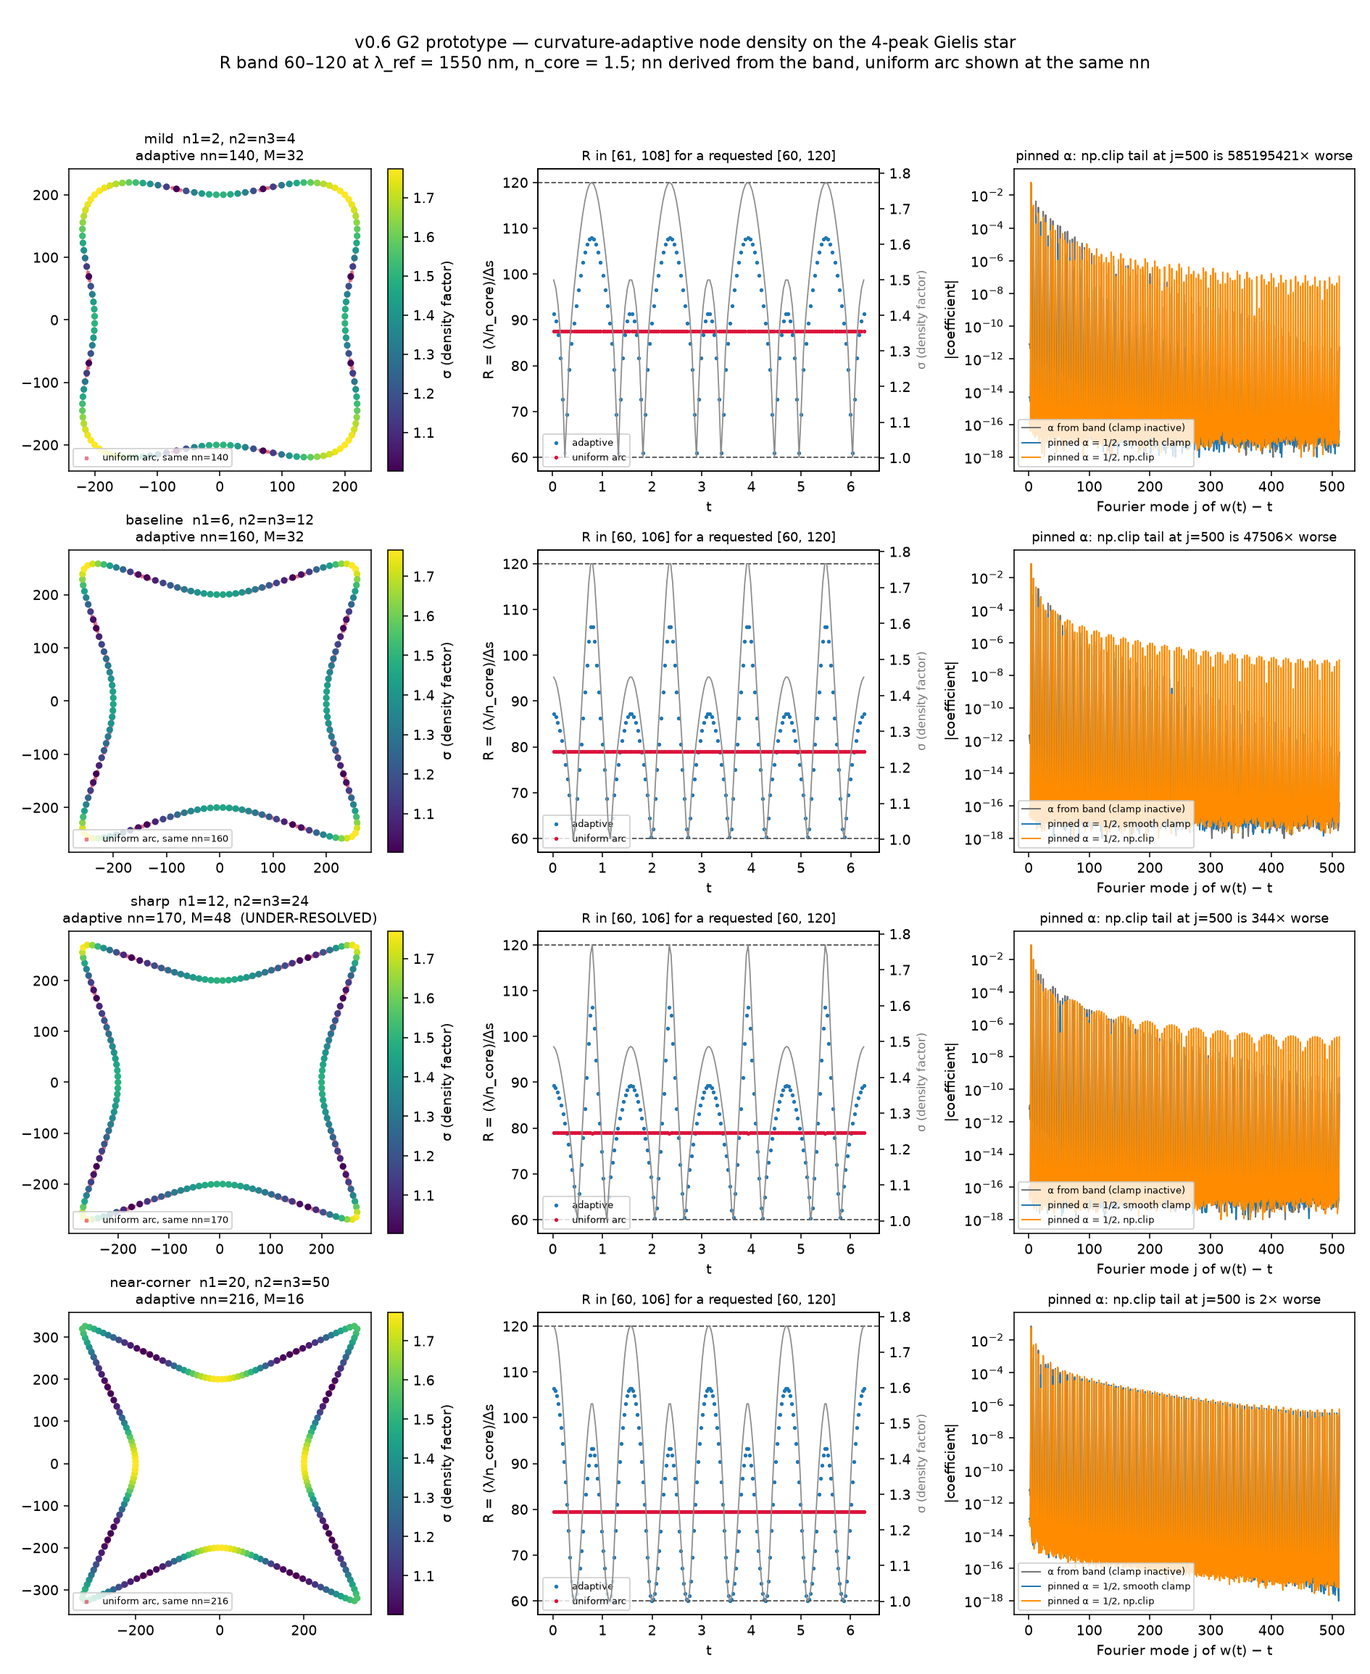
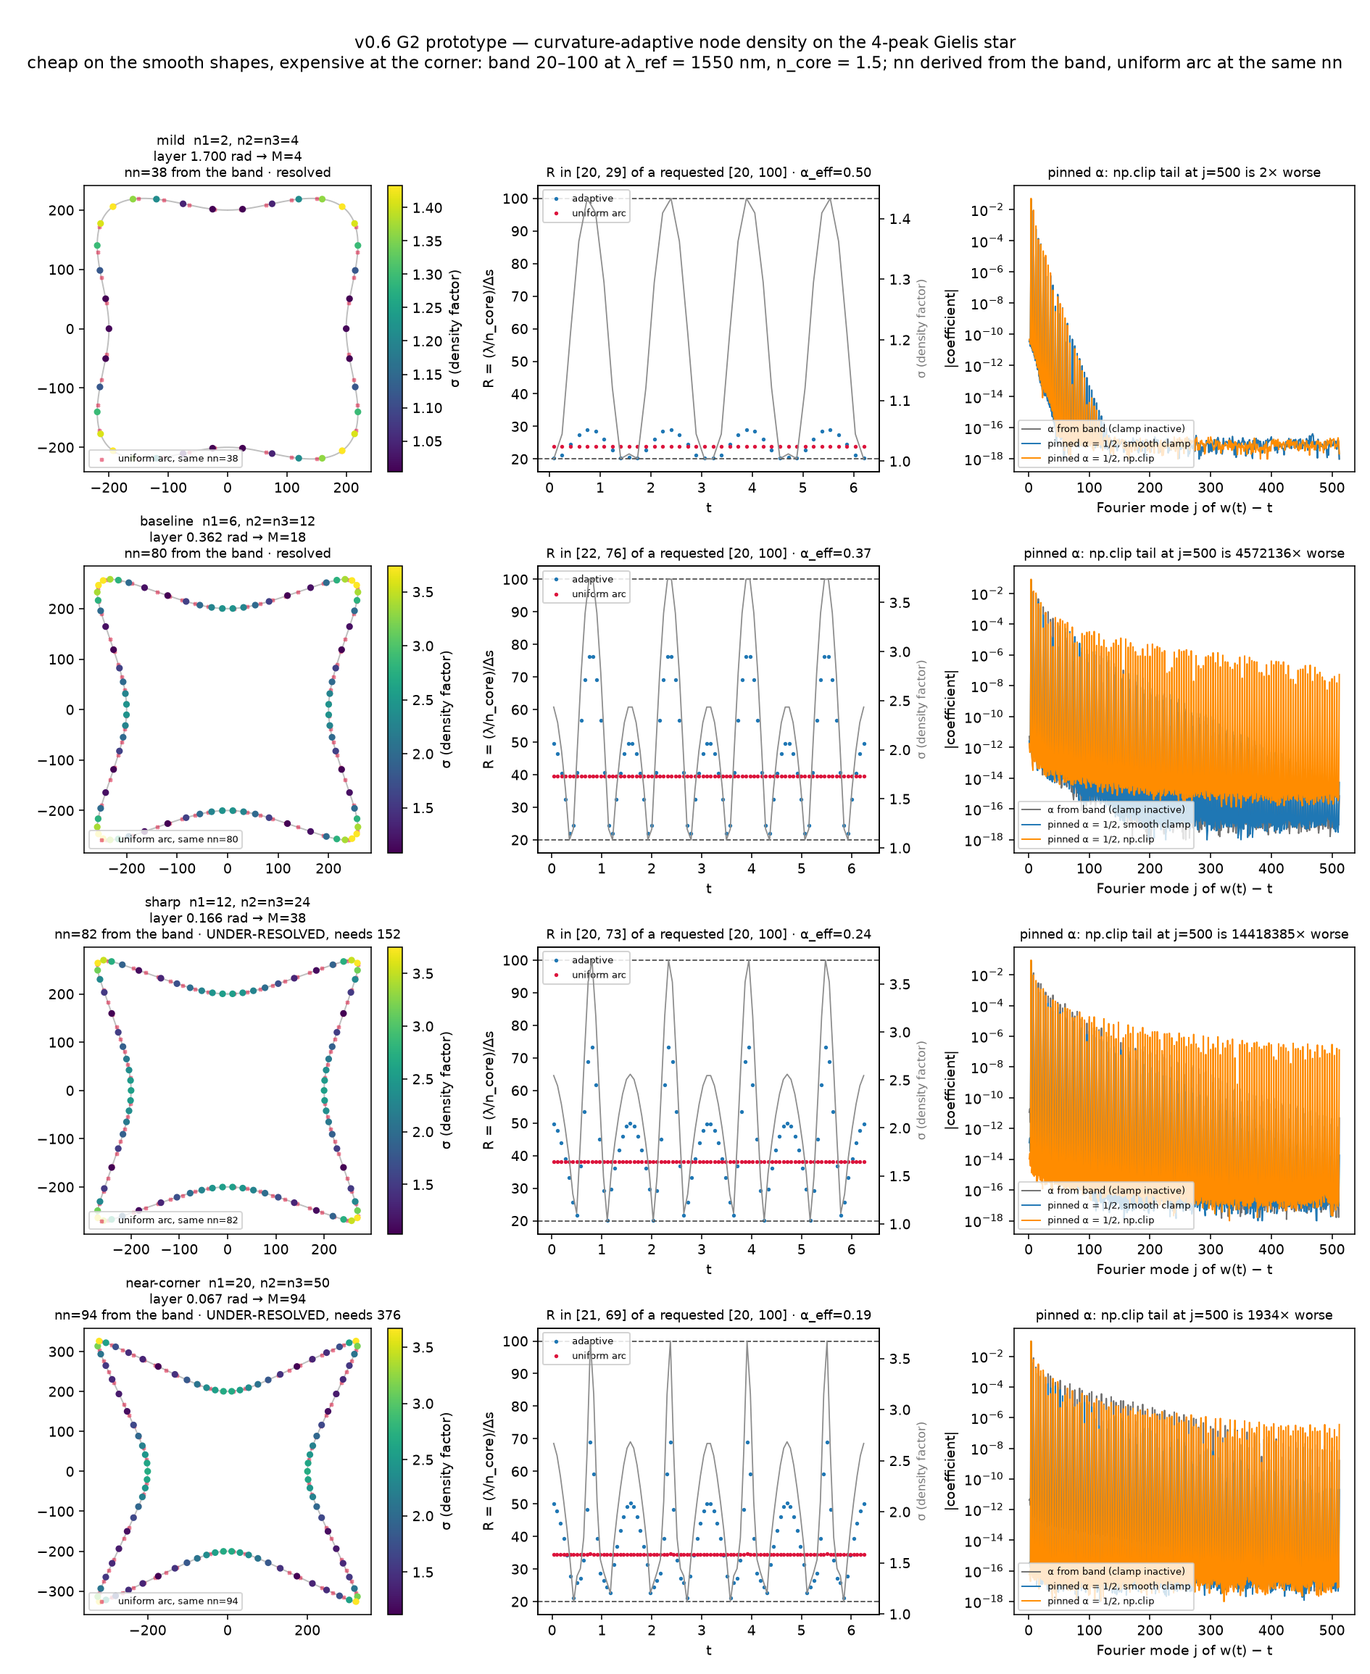
docs: band 20-100 and the near-corner cost curve
Sparser nodes at a 5x band make the grading visible. Replaces the lobe-count
bandwidth rule, which ordered backwards and gave the sharpest star the lowest
bandwidth, with the curvature-layer width: M = 4, 18, 38, 94 across the
ladder, so a graded map needs nn >~ 16, 72, 152, 376.

That is the cheap-smooth / expensive-corner curve, measurable from geometry
before any solve, and it predicts where G3's envelope should find its knee:
between n1 = 6 and n1 = 12, where 4M overtakes what the R band asks for.

diff --git a/docs/design/studies/adaptive_density.py b/docs/design/studies/adaptive_density.py
@@ -137,24 +137,31 @@ def _softclamp(s: np.ndarray, width: float, beta: float) -> np.ndarray:
     return softplus(s) - softplus(s - width)
 
 
-def lobe_count(kappa: np.ndarray, gam: np.ndarray, alpha: float = 0.5) -> int:
-    """Dominant angular harmonic of the log-curvature — the lobe count.
+def layer_width(kappa: np.ndarray, drop: float = 1.0) -> float:
+    """Angular width of the curvature layer, in radians.
 
-    Read from the spectrum rather than taken from Gielis ``m``, so the same
-    rule works for any boundary and carries no absolute length (§9).
+    The fraction of the boundary on which ``ln|κ|`` sits within ``drop`` of its
+    maximum. On a Gielis star that is the angular extent of the arm tip, and it
+    narrows as the exponent rises — the geometric signature of the thinning
+    analyticity strip that architecture §4 invokes. Measured on the raw κ,
+    which is analytic, so no smoothing is needed to define it and there is no
+    circularity with the bandwidth it feeds.
+
+    Args:
+        kappa: |κ(θ)| on the fine grid.
+        drop: How far ``ln|κ|`` may fall below its peak and still count as
+            inside the layer.
+
+    Returns:
+        The layer width in radians.
     """
-    perimeter = float(np.mean(gam) * 2.0 * PI)
-    s_raw = alpha * np.log(np.maximum(kappa * perimeter / (2.0 * PI), 1e-12))
-    power = np.abs(np.fft.rfft(s_raw - s_raw.mean())) ** 2
-    return max(1, int(np.argmax(power[1:])) + 1)
+    s_raw = np.log(np.maximum(kappa, 1e-300))
+    inside = int((s_raw > s_raw.max() - drop).sum())
+    return max(inside, 1) / kappa.size * 2.0 * PI
 
 
-def density_bandwidth(
-    kappa: np.ndarray, gam: np.ndarray, alpha: float = 0.5, per_lobe: int = 4
-) -> int:
-    """Low-pass bandwidth for the density: ``per_lobe`` harmonics per lobe.
-
-    Two things this rule is deliberately *not*:
+def density_bandwidth(kappa: np.ndarray, harmonics_per_layer: float = 1.0) -> int:
+    """Gaussian smoothing width for the density: ``2π / layer width``.
 
     **Not tied to ``nn``**, which architecture §4 suggests and measurement
     rejects: a bandwidth ∝ nn makes ``w`` a different map at every resolution,
@@ -162,23 +169,26 @@ def density_bandwidth(
     instead of converging. It is also invariant 13.3 in another guise — the
     frozen object has to be one map.
 
-    **Not a faithful fit to κ.** Retaining all but 1e-4 of the log-curvature's
-    spectral energy asks for M = 1253 on the near-corner star, i.e. no
-    smoothing at all: the density is then as sharply peaked as κ, ``w`` loses
-    its wide analyticity strip, and the clamp stops mattering because σ varies
-    violently either way. The density is a *design* profile that has to track κ
-    loosely and be smooth; a handful of harmonics per lobe is what that means.
+    **Not a faithful fit to κ either.** Retaining all but 1e-4 of the
+    log-curvature's spectral energy asks for M = 1253 on the near-corner star,
+    i.e. no smoothing at all: the density is then as sharply peaked as κ and
+    the map loses the wide analyticity strip that is the whole point.
+
+    Tying M to the *layer width* instead puts the bandwidth where the physics
+    is. It is also the rule that orders correctly with sharpness — a lobe-count
+    rule gave the **sharpest** star the **lowest** bandwidth, which is backwards
+    — and it makes the cost of the near-corner regime explicit before any solve:
+    M = 4, 18, 38, 94 across the four stars, so a graded map needs
+    ``nn ≳ 4M`` = 16, 72, 152, 376.
 
     Args:
         kappa: |κ(θ)| on the fine grid.
-        gam: γ(θ) on the fine grid.
-        alpha: Curvature exponent, as in :func:`density_shape`.
-        per_lobe: Harmonics retained per lobe.
+        harmonics_per_layer: Gaussian widths retained per layer width.
 
     Returns:
         The mode cutoff M.
     """
-    return max(4, per_lobe * lobe_count(kappa, gam, alpha))
+    return max(4, int(np.ceil(harmonics_per_layer * 2.0 * PI / layer_width(kappa))))
 
 
 def density_shape(
@@ -281,7 +291,7 @@ def build(
     alpha: float = 0.5,
     hard: bool = False,
     uniform_arc: bool = False,
-    per_lobe: int = 4,
+    per_layer: float = 1.0,
     cap_alpha: bool = True,
     nn_force: int | None = None,
 ) -> Parametrisation:
@@ -297,7 +307,7 @@ def build(
             holomorphy Beyn's contour needs (conventions §13.2).
         alpha: Curvature exponent of the density.
         hard: Use the C⁰ ``np.clip`` clamp (the G2 control).
-        per_lobe: Harmonics per lobe retained in the density.
+        per_layer: Gaussian widths retained per curvature-layer width.
         cap_alpha: Derive the curvature exponent from the band (the default);
             False pins ``alpha`` and lets the clamp bind.
         nn_force: Sample the same map at this nn instead of the one the band
@@ -323,7 +333,7 @@ def build(
     # The map is built first and depends on nn nowhere; nn is then read off
     # the band. One direction only — an nn-dependent map is invariant 13.3 in
     # another guise.
-    n_modes = density_bandwidth(kappa, gam, alpha, per_lobe=per_lobe)
+    n_modes = density_bandwidth(kappa, harmonics_per_layer=per_layer)
     sigma, alpha_eff = density_shape(
         kappa, gam, contrast, n_modes, alpha=alpha, hard=hard, cap_alpha=cap_alpha
     )
@@ -445,6 +455,7 @@ def checks(shape: dict, par: Parametrisation) -> dict:
         # Not a coupling — the map stays nn-independent — but a *check*: if it
         # fails, the band is too coarse to carry a graded map on this shape.
         "M": par.n_modes,
+        "nn_min": 4 * par.n_modes,
         "density_resolved": par.nn >= 4 * par.n_modes,
         "alpha_eff": round(par.alpha_eff, 4),
     }
@@ -485,7 +496,7 @@ STARS = [
     ("sharp  n1=12, n2=n3=24", _star(12, 24)),
     ("near-corner  n1=20, n2=n3=50", _star(20, 50)),
 ]
-R_BAND = (60.0, 120.0)
+R_BAND = (20.0, 100.0)
 N_CORE = 1.5
 
 
@@ -512,6 +523,11 @@ def main() -> None:
         ax = axes[row, 0]
         theta_f = np.linspace(0, 2 * PI, 2000)
         f_f, g_f, *_ = gielis(theta_f, **shape)
+        dense = np.linspace(0, 2 * PI, N_FINE, endpoint=False)
+        fd, gd, *_ = gielis(dense, **shape)
+        dfd, dgd = _dtheta(fd), _dtheta(gd)
+        gam_d = np.hypot(dfd, dgd)
+        kap = np.abs(dfd * _dtheta(gd, 2) - dgd * _dtheta(fd, 2)) / gam_d**3
         ax.plot(f_f, g_f, "-", color="0.75", lw=1.0, zorder=1)
         fa, ga, *_ = gielis(ad.theta, **shape)
         sc = ax.scatter(fa, ga, c=ad.sigma_nodes, s=14, cmap="viridis", zorder=3)
@@ -519,9 +535,13 @@ def main() -> None:
         ax.scatter(fu, gu, s=5, marker="x", color="crimson", alpha=0.55, zorder=2,
                    label=f"uniform arc, same nn={un.nn}")
         ax.set_aspect("equal")
-        ax.set_title(f"{label}\nadaptive nn={ad.nn}, M={ad.n_modes}"
-                     f"{'' if ad.nn >= 4 * ad.n_modes else '  (UNDER-RESOLVED)'}",
-                     fontsize=10)
+        need = 4 * ad.n_modes
+        verdict = "resolved" if ad.nn >= need else f"UNDER-RESOLVED, needs {need}"
+        ax.set_title(
+            f"{label}\nlayer {layer_width(kap):.3f} rad → M={ad.n_modes}\n"
+            f"nn={ad.nn} from the band · {verdict}",
+            fontsize=9.5,
+        )
         ax.legend(fontsize=6.5, loc="lower left")
         fig.colorbar(sc, ax=ax, fraction=0.046, label="σ (density factor)")
 
@@ -539,9 +559,12 @@ def main() -> None:
         ax.axhline(R_BAND[1], color="0.3", ls="--", lw=0.9)
         ax.set_xlabel("t")
         ax.set_ylabel("R = (λ/n_core)/Δs")
-        ax.set_title(f"R in [{ad.r_achieved[0]:.0f}, {ad.r_achieved[1]:.0f}] "
-                     f"for a requested [{R_BAND[0]:.0f}, {R_BAND[1]:.0f}]", fontsize=9)
-        ax.legend(fontsize=6.5, loc="lower left")
+        ax.set_title(
+            f"R in [{ad.r_achieved[0]:.0f}, {ad.r_achieved[1]:.0f}] of a requested "
+            f"[{R_BAND[0]:.0f}, {R_BAND[1]:.0f}] · α_eff={ad.alpha_eff:.2f}",
+            fontsize=9,
+        )
+        ax.legend(fontsize=6.5, loc="upper left", framealpha=0.85)
         axd = ax.twinx()
         axd.plot(ad.t, ad.sigma_nodes, "-", color="0.55", lw=0.9)
         axd.set_ylabel("σ (density factor)", color="0.45", fontsize=8)
@@ -573,9 +596,9 @@ def main() -> None:
     fig.suptitle(
         "v0.6 G2 prototype — curvature-adaptive node density on the "
         "4-peak Gielis star\n"
-        f"R band {R_BAND[0]:.0f}\u2013{R_BAND[1]:.0f} at "
-        f"λ_ref = {REF_WAVELENGTH:g} nm, n_core = {N_CORE}; "
-        "nn derived from the band, uniform arc shown at the same nn",
+        f"cheap on the smooth shapes, expensive at the corner: band "
+        f"{R_BAND[0]:.0f}\u2013{R_BAND[1]:.0f} at λ_ref = {REF_WAVELENGTH:g} nm, "
+        f"n_core = {N_CORE}; nn derived from the band, uniform arc at the same nn",
         fontsize=12,
     )
     fig.tight_layout(rect=(0, 0, 1, 0.965))

diff --git a/docs/design/studies/quadrature-study-plan.md b/docs/design/studies/quadrature-study-plan.md
@@ -170,50 +170,86 @@ across four shapes of identical symmetry and is too crude to become a spec.
 
 #### G2 findings — the density is designed, node placement only (2026-09-12)
 
-Script: `adaptive_density.py`; figure `star_adaptive_sampling.png`, four 4-peak
-Gielis stars (`m = 4`, `n1/n2 = 2/4`, `6/12`, `12/24`, `20/50`) at an `R` band
-of 60–120, λ_ref = 1550 nm, `n_core = 1.5`. **Placement and smoothness only —
-no convergence rate is claimed here**, since that needs the Kress prototype
-and G0 first. What is established is the construction and six corrections to
-architecture §4.
+Script: `adaptive_density.py`; figure `star_adaptive_sampling.png`. Four 4-peak
+Gielis stars (`m = 4`, exponents `n1/n2 = 2/4`, `6/12`, `12/24`, `20/50`) at an
+`R` band of **20–100**, λ_ref = 1550 nm, `n_core = 1.5`. **Placement and map
+smoothness only — no convergence rate is claimed here**, since that needs G0
+and the Kress prototype. What is established is the construction, the cost
+curve into the near-corner regime, and six corrections to architecture §4.
 
 **The construction.** One density `σ(θ) ∝ |κ|^α_eff`, dimensionless in
 `u = |κ|·L/2π` (`u ≡ 1` on a circle); `T(θ) = 2π/Z ∫₀^θ σγ` built from an exact
 Fourier antiderivative and inverted by **Newton**, with `np.interp` demoted to
 the initial guess; `w' = 1/T'(w)` and `w'' = −T''(w)·(w')³` in closed form.
-Delivered density residual `max |σ·|dx/dt| / mean − 1|` is **4e-16** on all four
-stars, and `∫w' dt = 2π` to 1e-5–9e-3 at the band's own `nn`, converging to
-1e-9 when the band is raised — the inversion machinery is exact and the
-remaining error is resolution, not the map.
+The delivered density residual `max |σ·|dx/dt| / mean − 1|` is **4e-16** on all
+four stars — the inversion machinery is exact, and what error remains is
+resolution, not the map.
+
+**The cost curve, and it is the useful output.** The density's smoothing
+bandwidth `M` is set by the **angular width of the curvature layer** — the
+fraction of the boundary on which `ln|κ|` sits within 1 of its maximum, which
+is the arm tip and which narrows as the exponent rises. That is the geometric
+signature of the thinning analyticity strip §4 invokes, and it is measurable
+from the shape alone, before any solve:
+
+| star | layer width | `M` | `nn` from the band | `nn ≳ 4M` needed | `∫w' dt − 2π` |
+|---|---|---|---|---|---|
+| mild `n1=2` | 1.700 rad | 4 | 38 | 16 | 1.7e-8 |
+| baseline `n1=6` | 0.362 rad | 18 | 80 | 72 | 2.2e-3 |
+| sharp `n1=12` | 0.166 rad | 38 | 82 | **152** | 3.9e-4 |
+| near-corner `n1=20` | 0.067 rad | 94 | 94 | **376** | 1.7e-2 |
+
+**Cheap on the smooth shapes, expensive at the corner, and the two failure
+modes are different.** On the mild star the band's `nn = 38` already exceeds
+what the density needs and `∫w' dt = 2π` holds to 1e-8 — a graded map is
+essentially free. From the sharp star on, the `R` band stops being the binding
+constraint: `nn` is set by the *density*, not by the wavelength, and it grows
+like the reciprocal layer width. **This is the regime future convergence
+studies should live in**, and the table is the prediction they test — G3's
+envelope should locate its knee where `4M` overtakes what the band asks for,
+which on this ladder is between `n1 = 6` and `n1 = 12`.
+
+Note also that α_eff falls along the ladder (0.50, 0.37, 0.24, 0.19): the
+sharper the shape, the *weaker* the grading exponent needed to span the same
+band, because the curvature contrast it is spanning is larger.
 
 1. **Anchor the band at the curvature *maximum*, not the minimum.** The stars
-   carry a curvature contrast of ~8.8e3 against a requested band of 2. Scaling
-   `σ` up from `min κ` makes the *upper* bound bind over essentially the whole
+   carry a curvature contrast of ~8.8e3 against a band of 5. Scaling `σ` up
+   from `min κ` makes the *upper* bound bind over essentially the whole
    boundary: grading degenerates into uniform arc length with a few
-   artificially coarsened points, which is the opposite of the intent. Anchored
-   at `max κ`, σ = C sits at the sharpest point and σ = 1 on the smoothest, as
-   §4 specifies.
+   artificially coarsened points, which is the opposite of the intent.
+   Anchored at `max κ`, σ = C sits at the sharpest point and σ = 1 on the
+   smoothest, as §4 specifies.
 
-2. **Derive α from the band; do not pin it.** With `α = 1/2` the natural spread
-   is ~93× against a band of 2×, so the clamp saturates everywhere and the
-   density is two-level. `α_eff = min(α, ln C / range(ln|κ|))` — 0.10–0.18 on
-   these four stars — spans the band exactly and smoothly.
+2. **Derive α from the band; do not pin it.** With `α = 1/2` fixed, the natural
+   spread is ~93× against a band of 5×: the clamp saturates and the density is
+   two-level rather than graded. `α_eff = min(α, ln C / range(ln|κ|))` spans
+   the band smoothly. On the mild star the cap does *not* bind, so `α = 1/2`
+   stands and the band's top is simply unreachable — R spans 20–29 of a
+   requested 20–100, because a nearly-round shape has no curvature contrast to
+   grade. The band is a bound, not a promise.
 
 3. **The smooth clamp is then never active, which is the result.** With α
-   derived, hard and smooth clamps are bit-comparable. Pin α so the band binds
-   and the difference is enormous: the `w(t) − t` tail at mode 500 is
-   **5.9e8× / 4.8e4× / 3.4e2× / 1.7×** worse under `np.clip` across the four
-   stars. So §4's trap is real but reachable only by pinning α — the smooth
-   saturation stays in as a guard, not as the normal path.
+   derived, hard and smooth clamps are indistinguishable. Pin α so the band
+   binds and the difference is enormous: the `w(t) − t` tail at mode 500 is
+   **2× / 4.6e6× / 1.4e7× / 1.9e3×** worse under `np.clip` across the ladder
+   (the mild star escapes because at `M = 4` the map is almost trivially
+   smooth either way). So §4's trap is real but reachable only by pinning α —
+   the smooth saturation stays in as a guard, not as the normal path.
 
 4. **Bandwidth must not be tied to `nn`,** which §4 suggests. A bandwidth ∝ nn
    makes `w` a different map at every resolution: refinement chases a moving
    target and `∫w' dt = 2π` stalls near 1e-3 instead of converging. It is also
    invariant 13.3 in another guise — the frozen object has to be one map. The
-   bandwidth is a property of the *shape* (harmonics per lobe, lobe count read
-   off the log-curvature spectrum). The `nn` coupling survives as a **check**,
-   `nn ≥ 4M`, which the sharp star fails at this band and which says the band
-   is too coarse to carry a graded map rather than that the map is wrong.
+   `nn` coupling survives only as the **check** `nn ≥ 4M` in the table above,
+   whose failure says the band is too coarse to carry a graded map on that
+   shape rather than that the map is wrong.
+
+   A first attempt tied `M` to a detected lobe count and got the ordering
+   **backwards** — the sharpest star drew the *lowest* bandwidth (`M = 8`),
+   because the log-curvature's dominant harmonic reads 8, 8, 12 and 4 across
+   four shapes of identical symmetry. The layer-width rule replaces it and is
+   monotone in sharpness by construction.
 
 5. **Smooth with a positive kernel, not a sharp Fourier cutoff.** Truncation
    Gibbs-undershoots the peaked log-curvature and digs a narrow artificial
@@ -222,33 +258,32 @@ remaining error is resolution, not the map.
    where every node landed at `R ≈ 28.7` for a requested 15–30. A Gaussian
    (heat-kernel) taper cannot leave the range of its input.
 
-6. **Grading at a fixed `R_min` adds nodes; it does not save them.** 172 vs 96
-   on the mild star, because the band asks for *more* resolution at the peaks
-   while holding the floor. The gain is accuracy at equal `nn`, so the fair
-   const-density baseline is uniform arc length at the adaptive `nn` — that is
-   what the figure overlays, and what the G2 pass criterion has to mean.
+6. **Grading at a fixed `R_min` adds nodes; it does not save them.** 38 vs 32
+   on the mild star and 94 vs 56 at the corner, because the band asks for
+   *more* resolution at the peaks while holding the floor. The gain is accuracy
+   at equal `nn`, so the fair const-density baseline is uniform arc length at
+   the adaptive `nn` — that is what the figure overlays, and what the G2 pass
+   criterion has to mean.
 
 **`nn` is derived from the band, not supplied** (D17: rungs in `R`, never in
-raw `n_pts`). `min σ = 1` gives the first estimate `nn = ⌈R_min·Z·n_core/λ_ref⌉`,
-which over-resolves by up to ~2× because nodes are sparsest exactly where σ is
-smallest, so a narrow σ minimum goes unsampled. Descending from it while
-**verifying** each candidate — not extrapolating, which lands below the band —
-gives `nn` = 140 / 160 / 170 / 216, with the achieved band 60–106 against a
-requested 60–120.
+raw `n_pts`). `min σ = 1` gives the first estimate
+`nn = ⌈R_min·Z·n_core/λ_ref⌉`, which over-resolves by up to ~2× because nodes
+are sparsest exactly where σ is smallest, so a narrow σ minimum goes unsampled.
+Descending from it while **verifying** each candidate — not extrapolating,
+which lands below the band — gives the `nn` column above.
 
 **Scale covariance (§9) holds by construction.** The density reads only
-`|κ|·L`, so it carries no absolute length; the R band's absolute level enters
+`|κ|·L`, so it carries no absolute length; the `R` band's absolute level enters
 `nn` alone, and `nn` is unchanged when `rad` and λ scale together. A density
 that compared λ_ref against an absolute `Δs` pointwise would move the nodes
 under `rad` scaling alone — a §9 violation the specification invites and this
 construction avoids.
 
-**Not established here:** any convergence rate, the clamp's effect on solution
-error (as opposed to map smoothness), and whether `α_eff` ~ 0.1 is the right
-exponent for *accuracy* rather than for filling the band. The lobe-count
-detector also reads 8, 8, 12 and 4 for four shapes with the same symmetry,
-which is crude; it needs either the Gielis `m` or a better rule before it
-becomes a spec.
+**Not established here:** any convergence rate; the clamp's effect on solution
+error as opposed to map smoothness; whether `α_eff` is right for *accuracy*
+rather than for filling the band; and the constant in `nn ≳ 4M`, which is a
+Nyquist-style rule of thumb and wants pinning against a measured rate once the
+Kress prototype exists.
 
 ### G3 — Near-corner validity envelope
 
